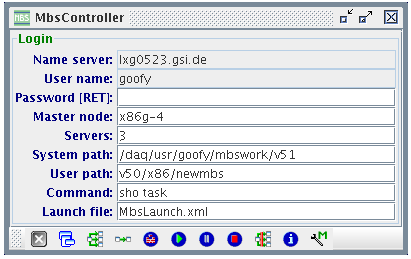
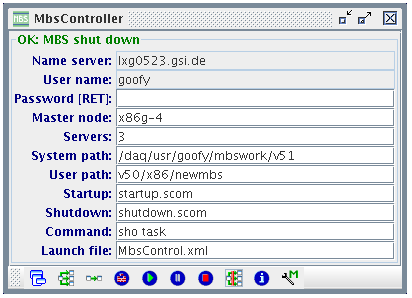
git-svn-id: https://subversion.gsi.de/dabc/trunk@451 bcbf6573-9a26-0410-9ebc-ce4ab7aade96

diff --git a/doc/user/user-gui.tex b/doc/user/user-gui.tex
@@ -29,6 +29,7 @@ The GUI is packed in a JAR file \verba{xgui.jar} which can be moved everywhere. 
 \keyw{CLASSPATH} paths together with the \verba{\$DIMDIR/jdim/classes} path.
 The GUI is invoked by \keyw{java -Xmx200m xgui.xGui}.
 For standard installations short cuts are provided like \keyw{dabc}.
+
 \section{GUI Panels}
 \figpng{user-gui-main-buttons}{Main toolbar buttons.}{htb}{0}{0.8}
 Fig. \paref{fig:user-gui-main-buttons} shows the main menu of \dabc\ (minimal view).
@@ -42,6 +43,8 @@ If one does not work with \mbs\ plug-ins the control panels for \mbs\
 are of cause not useful.\\
 \figpng{user-gui-full-screen}{More typical full screen view.}{htb}{0}{1.0}
 Fig. \paref{fig:user-gui-full-screen} shows a more typical view of a running \dabc.
+In general, all panels (including the GUI itself) can be closed and reopened any time.
+
 \lsubsection[Main DABC GUI buttons]{user:dabcButtons}{Main \dabc\ GUI buttons}
 \icon{fileclose} Quit GUI. Will prompt (\keyw{RET} will quit). The \dabc\ will continue to run.
 The GUI may be started anywhere again. In case you saved the layout (recommended, see \paref{user:guiSaveRestore})
@@ -73,16 +76,17 @@ The three control panels (\dabc, \mbs, combined \dabc\ and \mbs)
 are used depending on the
 application to be controlled. Eventually an application provides 
 additional specific control panels.
+
 \lsubsection[DABC control panel]{user:controlDabc}{\dabc~ control panel}
 The standard \dabc\ control panel is shown in \paref{fig:user-gui-pan-dabc}.
 As mentioned already some applications may provide their own control panels
 like the \mbs\ applications (see section \paref{user:controlMbs}).
 But most of the buttons are very common.
-From left to right the startup a system, configure it, start
+From left to right they startup a system, configure it, start
 data taking, pause data taking, stop tasks, shut down.
 At the very left we see a save button, at the right a shell execution button.
 \figpng{user-gui-pan-dabc}{DABC controller panel.}{htb}{0}{0.6}
-Values are read from file {\tt DabcLaunch.xml} (default, may be saved/restored to/from other file,
+Values are read from file {\tt DabcControl.xml} (default, may be saved/restored to/from other file,
 see \paref{user:guiSaveRestore}).
 {\small \begin{verbatim}
 <?xml version="1.0" encoding="utf-8"?>
@@ -113,8 +117,9 @@ The name server name is translated from shell environment variable \keyw{DIM\_DN
 the user name from shell environment variable \keyw{USER}. Password can be chosen when
 the first remote shell script is executed (which itself is protected by
 user password). All following commands then need this password.
+
 \subsubsection[DABC controller buttons]{\dabc\ controller buttons}
-\icon{savewin} Save panel settings to the file \keyw{Launch file}.
+\icon{savewin} Save panel settings to the file \keyw{Control file}.
 If you choose a name different from the default you must
 set a shell variable to it to get the values from that file
 (see \paref{user:guiSaveRestore}).\\
@@ -128,18 +133,19 @@ all panels from scratch according the parameters offered by the servers.\\
 on master node and waits for the transition.
 All plug-in components are created. Then execute \keyw{Enable}.
 Waits until all workers go into \keyw{Ready} state. Now the \dabc\ is ready to run.
-Triggers the main GUI \keyw{Update}\\
+Triggers the main GUI \keyw{Update}.\\
 \icon{dabcstart} Start acquisition. Executes \comm{Start} command.
 All components go into running state \keyw{Running}.\\
 \icon{dabcstop} Pause acquisition. Executes \comm{Stop} command.
 All components go into standby state \keyw{Ready}.\\
-\icon{mbsstop} Stop acquisition. Executes \comm{Halt} command.
+\icon{mbsstop} Halt acquisition. Executes \comm{Halt} command.
 This closes all plug-ins. States go into \keyw{Halted}. Next must be
 shut down or configure.\\
 \icon{disconn} Exit all processes by \comm{EXIT} commands. After 2 seconds 
 trigger the main GUI \keyw{Update}.\\
 \icon{exitall} Shut down all processes on all nodes by script. This is the hard shut down.\\
 \icon{controldabc} \verba{ssh} shell script execution on master node.\\
+
 \lsubsection{user:guiProgress}{Action in progress}
 \figpng{user-gui-pan-progress}{Launching progress.}{htb}{0}{0.6}
 When starting up, configure or shut down the GUI has to wait
@@ -147,14 +153,17 @@ until the front-ends have completed the action.
 During that time a progress window similar to the one shown
 in Fig. \paref{fig:user-gui-pan-progress} pops up.
 Please wait until the popup disappears.
+
 \subsection[MBS control panel]{\mbs\ control panel}
 To control and monitor a stand-alone \mbs\ system a dedicated control
 panel is provided by the \mbs\ application.
 This panel is described in the \mbs\ section \paref{user:controlMbs}.
+
 \subsection[Combined DABC and MBS control panel]{Combined \dabc\ and \mbs\ control panel}
 To control and monitor \mbs\ front-ends with \dabc\ event builders a dedicated control
 panel is provided by the \mbs\ application.
 This panel is described in the \mbs\ section \paref{user:controlDabcMbs}.
+
 \lsubsection{user:CommandPanel}{Command panel}
 The control system of \dabc\ and/or the application specific plug-ins
 can define commands. These commands are encoded as DIM services
@@ -178,6 +187,10 @@ from name, application, nodes. Double click (or \keyw{RETURN}) on a treenode
 executes the command on all treenodes below.
 A click on a command opens at the right side the argument panel.
 Entering argument values and \keyw{RETURN} executes the command.
+In the example shown in the figure doble click on \comm{doEnable}
+would execute that command on three nodes.
+Double click on \comm{Eventbuilder} would execute only on two nodes. 
+
 \lsubsection{user:ParTabPanel}{Parameter table}
 \dabc\ parameters are DIM services as the commands. The naming convention is
 the same. The server providing parameters can be make them (no)visible 
@@ -187,7 +200,9 @@ a rate parameter having a value, limits, a color, and a graphic presentation.
 A rate parameter is assumed to be changed and updated regularly.
 The GUI displayes these special parameters in dedicated panels. 
 Parameters are used in all components of \dabc.
-\figpng{user-gui-pan-partab}{Parameter table.}{htb}{0}{0.9}
+\figpng{user-gui-pan-pardabc}{Parameter table.}{htb}{0}{0.9}
+The central place for all parameters in the GUI is the
+parameter table as shwon in Fig. \paref{fig:user-gui-pan-pardabc}.
 The parameter table holds all parameters which are marked by the provider to be visible.
 The parameter values can be changed
 in the \keyw{Set value} column if no minus sign is there in which case the
@@ -198,6 +213,7 @@ to this panel by the buttons.
 The table can be ordered by columns (click on column header). 
 The column width can be adjusted and is saved/restored by main save button
 (see \paref{user:guiSaveRestore}).
+
 \lsubsubsection{user:ParSelPanel}{Parameter selection}
 \figpng{user-gui-pan-parsel}{Parameter selection panel and selected parameter list.}{htb}{0}{1.0}
 To get a more selective view on the parameters one can specify
@@ -213,22 +229,32 @@ If the data field is white the parameter can be changed.
 This cannot be done in place because the parameter might be
 updated in the mean time. Instead press \keyw{RETURN} in the field.
 A prompter will pop up to enter the value.
+
 \lsubsection{user:MonitorPanels}{Monitoring panels}
 As already mentioned the \dabc\ provides definitions of
 special purpose DIM parameters. These \keyw{Records}
 can be recognized by the GUI and are handled in appropriate way.
 Currently there are
 \bcir
-\item Rates
 \item States
+\item Rates
 \item Histograms
 \item Infos
 \ecir
+
+\subsubsection{States}
+\figpng{user-gui-pan-statedabc}{States.}{htb}{0}{0.8}
+States are records having a number for severity (0 to 4), a color,
+and a brief state description (see Fig. \paref{fig:user-gui-pan-statedabc}).
+Of cause the states of the \dabc\ state machine are shown as states.
+Application plug-ins may use this kind of records also for other
+information.
+
 \subsubsection{Rate meters}
 \figpng{user-gui-pan-rate}{Rates.}{htb}{0}{0.7}
 All rate meters are displayed in the meter panel, Fig.\paref{fig:user-gui-pan-rate}. 
 Meters can be removed
-in the parameter table (See Fig. \paref{fig:user-gui-pan-partab}) 
+in the parameter table (See Fig. \paref{fig:user-gui-pan-pardabc}) 
 with the \keyw{Show} buttons like the other graphical parameters.
 Saving the setup, the visibility will be preserved.
 \figpdf{user-gui-rate-set}{Steering menus.}{htb}{0}{1}
@@ -245,22 +271,18 @@ All changes done individually are changing the defaults!
 The global changes can be overwritten by these defaults.
 All settings are saved with the setup and restored on GUI startup
 (see \paref{user:guiSaveRestore}).
+
 \subsubsection{Histograms}
 Histogram panels are handled in pretty much the same way as the rate meters.
 \figpng{user-gui-pan-histo}{Histograms.}{htb}{0}{1.0}
 All histograms are displayed in the histogram panel, Fig.\paref{fig:user-gui-pan-histo}. 
 Histograms can have arbitrary size set in \keyw{Layout} menu.
-\subsubsection{States}
-\figpng{user-gui-pan-statedabc}{States.}{htb}{0}{1.0}
-States are records having a number for severity (0 to 4), a color,
-and a brief state description (see Fig. \paref{fig:user-gui-pan-statedabc}).
-Of cause the states of the \dabc\ state machine are shown as states.
-Application plug-ins may use this kind of records also for other
-information.
+
 \subsubsection{Information}
 \figpng{user-gui-pan-infodabc}{Info.}{htb}{0}{1.0}
 Information records mainly display one line of text with a color
 (see Fig. \paref{fig:user-gui-pan-infodabc}).
+
 \subsubsection{Logging window}
 \figpng{user-gui-pan-logdabc}{Logging.}{htb}{0}{1.0}
 Fig. \paref{fig:user-gui-pan-logdabc} show the logging window.

diff --git a/doc/user/user-exa-mbs.tex b/doc/user/user-exa-mbs.tex
@@ -14,11 +14,12 @@ Of cause, the \mbs\ itself must have been build with the DIM option (since versi
 Central log file is written as usual.
 Optionally one can provide a text file with specifications which parameters
 shall appear on screen (see \paref{user:MbsDimconfig}).
+
 \lsubsection[MBS control panel]{user:controlMbs}{\mbs\ control panel}
 \figpng{user-gui-pan-mbs}{MBS  controller.}{htb}{0}{0.6}
-Fig. \paref{fig:user-gui-pan-mbs} show the panel to be used to control
+Fig. \paref{fig:user-gui-pan-mbs} shows the panel to be used to control
 a standard \mbs.
-Values from file {\tt MbsLaunch.xml} (default, may be saved to other file,
+The values are restored from file {\tt MbsControl.xml} (default, may be saved to other file,
 see \paref{user:guiSaveRestore}).
 {\small \begin{verbatim}
 <?xml version="1.0" encoding="utf-8"?>
@@ -26,7 +27,8 @@ see \paref{user:guiSaveRestore}).
 <MbsMaster prompt="MBS Master" value="node-xx" />
 <MbsUserPath prompt="MBS User path" value="myMbsDir" />
 <MbsSystemPath prompt="MBS system path" value="/mbs/v51" />
-<MbsScript prompt="MBS Script" value="script/remote_exe.sc" />
+<MbsStartup prompt="MBS startup" value="startup.scom"/>
+<MbsShutdown prompt="MBS shutdown" value="shutdown.scom"/>
 <MbsCommand prompt="Script command" value="whatever command" />
 <MbsServers prompt="%Number of needed DIM servers%" value="3" />
 </MbsLaunch>
@@ -36,6 +38,10 @@ see \paref{user:guiSaveRestore}).
 \item[MbsUserPath]: \mbs\ user working directory. The GUI need not to have
 access to that filesystem.
 \item[MbsSystemPath]:  Path on Lynx where the \mbs\ is installed. GUI needs no access to this path.
+\item[MbsStartup]: The user specific \mbs\ startup command procedure, typically \verba{startup.scom},
+located on user path.
+\item[MbsShutdown]: The user specific \mbs\ shutdown command procedure, typically \verba{shutdown.scom},
+located on user path.
 \item[MbsCommand]: With \keyw{RET} an \mbs\ command in executed (on current node).
 The shell script button executes this string as \verba{rsh} command on master node.
 \item[MbsServers]: Number of nodes plus prompter. This information
@@ -44,21 +50,21 @@ this number of DIM servers is up and running.
 \edes
 That file can be created from within the GUI in the \mbs\  controller panel.
 Enter all values necessary, and store them. 
-\subsubsection[MBS  controller buttons]{\mbs\  controller buttons}
-\icon{fileclose} Close window.\\
+
+\subsubsection[MBS controller buttons]{\mbs\  controller buttons}
 \icon{savewin} Save panel settings, see \paref{user:guiSaveRestore}.\\
 \icon{connprm}  Execute script \verba{prmstartup.sc} at master node.
-Starts prompter, dispatchers and message loggers and waits untill they are up.
+Starts prompter, dispatchers and message loggers and waits until they are up.
 Trigger the main \keyw{Update}.
 A progress panel pops up during that time (see \paref{user:guiProgress}).\\
 \icon{conndsp} Execute script \verba{dimstartup.sc} at master node.
 Starts dispatcher and message logger for single node \mbs.
 Trigger the main \keyw{Update}.\\
-\icon{dabcconfig} Configure. Execute \verba{startup.scom} in prompter (dispatcher).
+\icon{dabcconfig} Configure. Execute user's \mbs\ startup procedure in prompter (dispatcher).
 Trigger the main \keyw{Update}.\\
-\icon{dabcstart} \comm{Start acquisition}.\\
-\icon{dabcstop} Hold acquisition. Execute \comm{stop acquisition}.\\
-\icon{mbsstop} Stop acquisition. Execute \verba{shutdown.scom} in prompter.
+\icon{dabcstart} Start acquisition. Execute \comm{Start acquisition}.\\
+\icon{dabcstop} Pause acquisition. Execute \comm{Stop acquisition}.\\
+\icon{mbsstop} Halt acquisition. Execute user's \mbs\ shutdown procedure in prompter.
 Prompter, dispatcher and message loggers should still be running.\\
 \icon{disconn} Shut down all. Execute script \verba{prmshutdown.sc} at master node.
 After 2 seconds trigger the main \keyw{Update}.\\
@@ -69,18 +75,19 @@ After 2 seconds trigger the main \keyw{Update}.\\
 \subsection[MBS setup]{\mbs\ setup}
 When we want to use \dabc\ nodes as event builders, we need a different
 setup on the \mbs\ side. We assume that we have more than one
-\mbs\ node. Such multi-node system is controlled by a prompter.
-The setup has to be changed in that all nodes run as if they are stand alone.
+\mbs\ node. Such multi-node system is controlled by an \mbs\ prompter running on one node.
+The setup has to be changed such that all nodes run as if they are stand alone.
 That means that each node runs the \keyw{Readout} - \keyw{Collector} - \keyw{Transport}
 chain. The \dabc\ event builders connect to these transports.
 The \mbs\ buffer size should be set to the stream size and the number of buffers per
 stream must be set to one.
+
 \subsection[DABC setup]{\dabc\ setup}
 On the \dabc\ user working directory we need configuration files.
 
 Summary of parameters:
 \bdes
-\item[MbsFileName] File name for lmd file. Overwritten by command.
+\item[MbsFileName] File name for list mode data file (\keyw{LMD}). Overwritten by command.
 \item[MbsFileSizeLimit] File closes when size is reached, and new file opens.
 \item[BufferSize] Should match \mbs\ buffer size.
 \item[MbsServerKind] \keyw{Transport} | \keyw{Stream}.
@@ -108,9 +115,9 @@ with three input ports and two output ports.
 Now we can use the combined  controller panel to startup \mbs\ and \dabc.
 \lsubsection[Combined DABC and MBS control panel]{user:controlDabcMbs}{Combined \dabc\ and \mbs\ control panel}
 \figpng{user-gui-pan-dabcmbs}{Combined DABC and MBS  controller.}{htb}{0}{0.7}
-This panel shown in Fig. \pageref{fig:user-gui-pan-dabcmbs} is simply a superposition of the single ones.
+This panel shown in Fig. \paref{fig:user-gui-pan-dabcmbs} is simply a superposition of the single ones.
+
 \subsubsection[Combined DABC and MBS  controller buttons]{Combined \dabc\ and \mbs\  controller buttons}
-\icon{fileclose} Close window.\\
 \icon{savewin} Save panel settings, see \paref{user:guiSaveRestore}.\\
 \icon{connprm}  Execute script \verba{dabcstartup.sc} at \dabc\ master node.
 Starts DIM servers.
@@ -120,28 +127,29 @@ Waits for all components.
 A progress panel pops up during that time
 (see \paref{user:guiProgress}).
 If all components are up trigger the main \keyw{Update}.\\
-\icon{dabcconfig} Configure. Execute \verba{startup.scom} in \mbs\ prompter.
+\icon{dabcconfig} Configure. Execute user's \mbs\ startup procedure in prompter.
 Executes state transition command \comm{Configure}
 on \dabc\ master node and wait for the transition.
 All plug-in components are created. Then execute \comm{Enable}.
 If all components are up trigger the main \comm{Update}.\\
 \icon{dabcstart} Start \mbs\ acquisition, then executes \dabc\ \comm{Start} command.
 All components go into running state \keyw{Running}.\\
-\icon{dabcstop} Hold acquisition. Execute \mbs\ \comm{stop acquisition}.
+\icon{dabcstop} Pause acquisition. Execute \mbs\ \comm{stop acquisition}.
 Execute \dabc\ \comm{Stop} command.
 All components go into standby state \keyw{Ready}.\\
-\icon{mbsstop} Executes \dabc\ \comm{Halt} command.
+\icon{mbsstop} Halt acquisition. Executes \dabc\ \comm{Halt} command.
 This closes all plug-ins. States go into \keyw{Halted}. 
-Execute \verba{shutdown.scom} in \mbs\ prompter.
+Execute user's \mbs\ shutdown procedure in prompter.
 Prompter, dispatcher and message loggers should still be running.
 Next must be shut down or configure.
 After two seconds trigger the main \keyw{Update}.\\
 \icon{disconn} Shut down all. Execute \comm{EXIT} command on all \dabc\ nodes.
 Execute script \verba{prmshutdown.sc} at \mbs\ master node.
 After two seconds trigger the main \keyw{Update}.\\
-\icon{info} \comm{Show acquisition}. Output in log panel.\\
+\icon{info} \mbs\ \comm{Show acquisition}. Output in log panel.\\
 \icon{controlmbs} Shell script for \mbs\ master node.\\
 \icon{controldabc} Shell script for \dabc\ master node.
+
 \subsection[MBS command panel]{\mbs\ command panel}
 \figpng{user-gui-pan-cmd-mbs}{Command panel.}{htb}{0}{0.9}
 Fig. \paref{fig:user-gui-pan-cmd-mbs} shows
@@ -151,7 +159,7 @@ below that are the commands, and the master node (prompter node) is the only nod
 below each command. However,
 command is sent to the prompter node, but executed on the current node 
 which is displayed in the info panel
-(see Fig. \paref{fig:user-gui-pan-info}).
+(see Fig. \paref{fig:user-gui-pan-cmd-mbs2}).
 Click on a command opens at the right side the argument panel.
 Entering argument values and \keyw{RETURN} executes the command.
 \figpng{user-gui-pan-cmd-mbs1}{Info and command panel.}{htb}{0}{0.9}
@@ -277,6 +285,7 @@ parameters which are in this file are optional.
 #* SpillOn
 # ++ Shows if file is open, typically only on one node (transport)
 #* FileOpen
+#* Trigger
 
 ##======== Node XXX
 #XXX EventRate   : 10000.
